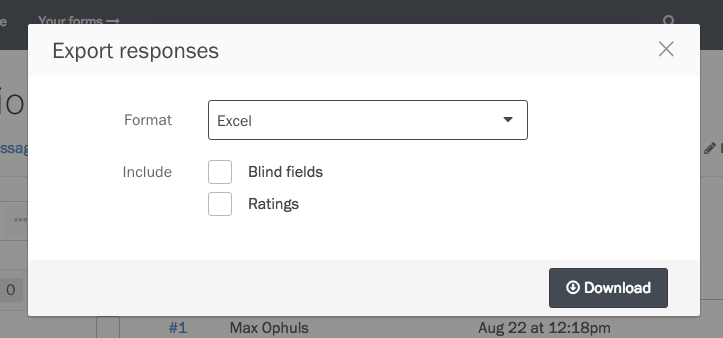
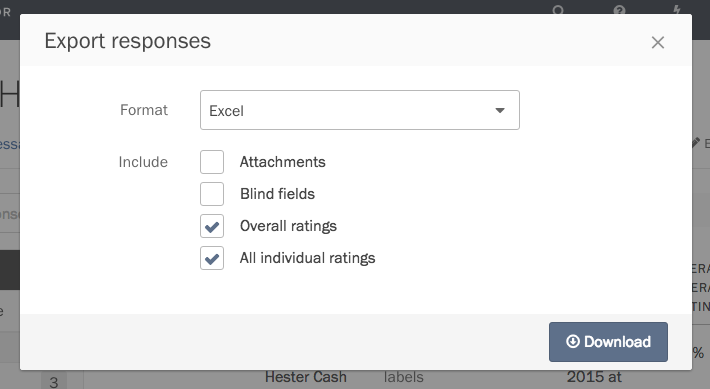
Add screenshot and edits (#331)

diff --git a/contents/articles/screendoor/responses/exporting_responses.md b/contents/articles/screendoor/responses/exporting_responses.md
@@ -18,7 +18,7 @@ A modal dialog will appear. Under Format, choose how you would like to receive y
 
 ![The Export Responses modal.](../images/export_2.png)
 
-By default, exports do not contain uploaded attachments. If you want to export files uploaded from your respondents, select "Attachments" from the Format dropdown.
+By default, exports do not contain uploaded attachments. If you want to export files uploaded from your respondents, select "Attachments" from the list of options under "Include."
 
 Once you have configured your export, press the "Download" button to begin the export process.
 
